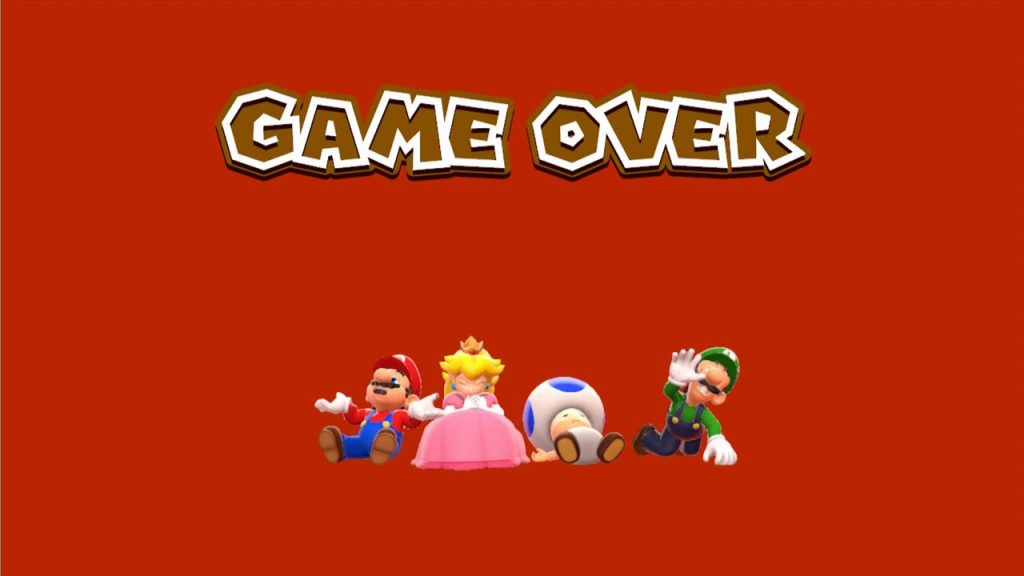
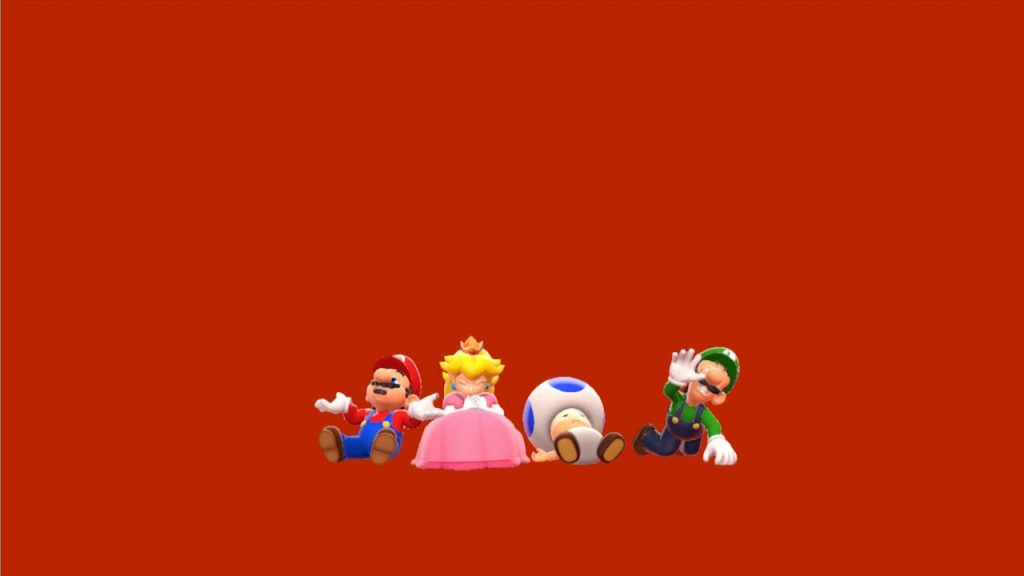
style: responsive page de partie terminée Ref #63

Changed region(s): [[0.1875, 0.125, 0.8125, 0.3125]]

diff --git a/front/app/gameFinished/gameFinished.js b/front/app/gameFinished/gameFinished.js
@@ -45,10 +45,13 @@ function loadLocalFinishedPage() {
 }
 
 if (gameResults.result) {
-  document.getElementById("results-container").style.justifyContent = "flex-start";
+  const resultText = document.getElementById("result-text");
+  resultText.textContent = "You Won";
+
   switch (gameResults.type) {
     case "ai":
-      background.style.backgroundImage = 'url("../../assets/images/win-ai.png")';
+      background.style.backgroundImage =
+        'url("../../assets/images/win-ai.png")';
       break;
     case "online":
       background.style.backgroundImage = 'url("../../assets/images/win.png")';
@@ -56,7 +59,7 @@ if (gameResults.result) {
     case "local":
       background.style.backgroundImage = 'url("../../assets/images/win.png")';
       const winnerName = document.createElement("h2");
-        winnerName.textContent = gameResults.result+" won!";
+      winnerName.textContent = gameResults.result + " won!";
       document.getElementById("results-container").appendChild(winnerName);
       break;
     default:
@@ -64,25 +67,27 @@ if (gameResults.result) {
       break;
   }
 } else {
+  const resultText = document.getElementById("result-text");
+  resultText.textContent = "Game Over";
   background.style.backgroundImage = 'url("../../assets/images/game-over.png")';
 }
 
 function incNbrRec(currentNumber, endNumber, element, speed) {
-  element.innerHTML = currentNumber
+  element.innerHTML = currentNumber;
   if (currentNumber < endNumber) {
-    element.style.color = "green"
-    setTimeout(function() {
-      incNbrRec(currentNumber + 1, endNumber, element, speed)
-    }, speed)
+    element.style.color = "green";
+    setTimeout(function () {
+      incNbrRec(currentNumber + 1, endNumber, element, speed);
+    }, speed);
   }
   if (currentNumber > endNumber) {
-    element.style.color = "red"
-    setTimeout(function() {
-      incNbrRec(currentNumber - 1, endNumber, element, speed)
-    }, speed)
+    element.style.color = "red";
+    setTimeout(function () {
+      incNbrRec(currentNumber - 1, endNumber, element, speed);
+    }, speed);
   }
   if (currentNumber === endNumber) {
-    element.style.color = "black"
-    element.innerHTML = "New Elo : "+endNumber;
+    element.style.color = "black";
+    element.innerHTML = "New Elo : " + endNumber;
   }
 }

diff --git a/front/app/gameFinished/gameFinished.css b/front/app/gameFinished/gameFinished.css
@@ -14,7 +14,7 @@
 
 
 #game-finished-container {
-    width: 70%;
+    width: 80vw;
     height: 100vh;
     margin-left: auto;
     margin-right: auto;
@@ -25,16 +25,17 @@
 }
 
 #results-container {
-    height: 80%;
+    height: 60vh;
     display: flex;
     flex-direction: column;
     justify-content: center;
     align-items: center;
+    gap: 4vh;
 }
 
 .navigation-buttons {
-    width: 100%;
-    height: 20%;
+    width: 80vw;
+    height: 40vh;
     overflow: visible;
     display: flex;
     gap: 10vw;
@@ -42,11 +43,34 @@
     align-items: center;
 }
 
-#results-container > *{
+#elo-text{
     padding: 20px;
     background: rgba(255, 255, 255, 0.8);
     border-radius: 20px;
     border: #111 solid 4px;
-    font-family: 'Mario64', sans-serif;
     font-size: 3rem;
+}
+
+#result-text, #elo-text{
+    font-family: 'Mario64', sans-serif;
+}
+
+#result-text{
+    text-shadow: 2px 0 #fff, -2px 0 #fff, 0 2px #fff, 0 -2px #fff,
+    1px 1px #fff, -1px -1px #fff, 1px -1px #fff, -1px 1px #fff;
+
+    font-size: 5rem;
+}
+
+
+
+
+@media only screen and (max-width: 600px) {
+
+    .navigation-buttons {
+        height: 30vh;
+        flex-direction: column;
+        gap: 4vh;
+    }
+
 }

diff --git a/front/app/gameFinished/gameFinished.html b/front/app/gameFinished/gameFinished.html
@@ -3,6 +3,7 @@
 <head>
     <meta charset="UTF-8">
     <title>Quoribros</title>
+    <meta name="viewport" content="width=device-width, initial-scale=1.0">
     <link rel="stylesheet" type="text/css" href="../../styles.css">
     <link rel="stylesheet" type="text/css" href="gameFinished.css">
 
@@ -11,6 +12,8 @@
 <div id="background"></div>
 <div id="game-finished-container">
     <div id="results-container">
+        <h2 id="result-text"></h2>
+
     </div>
 
     <div class="navigation-buttons">
